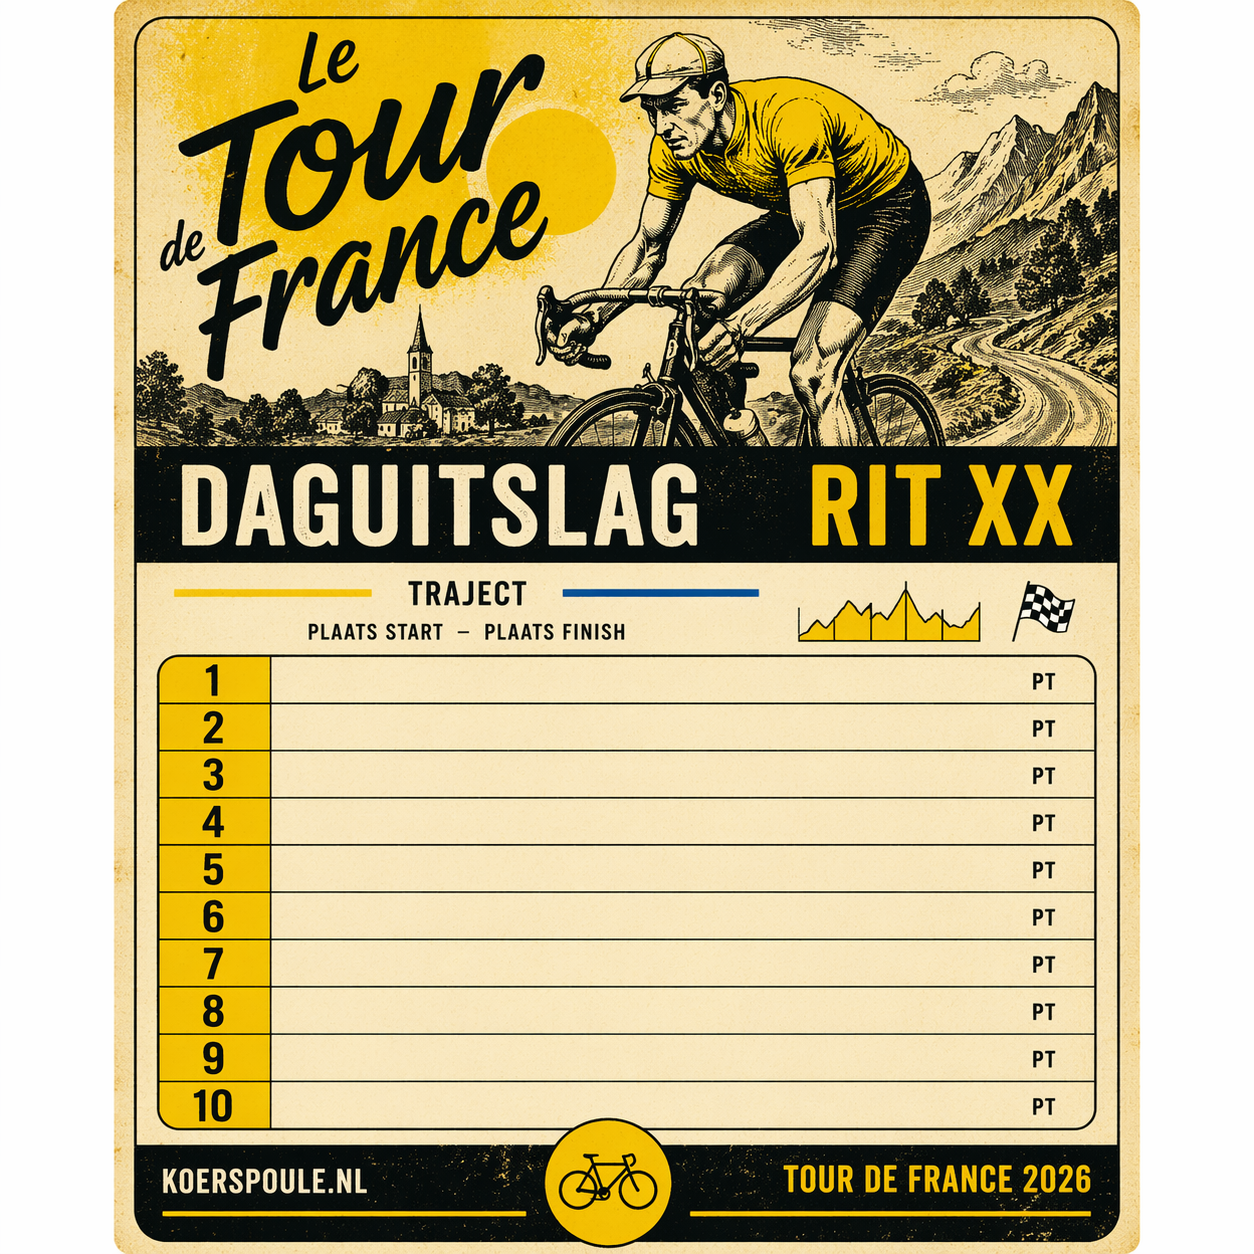
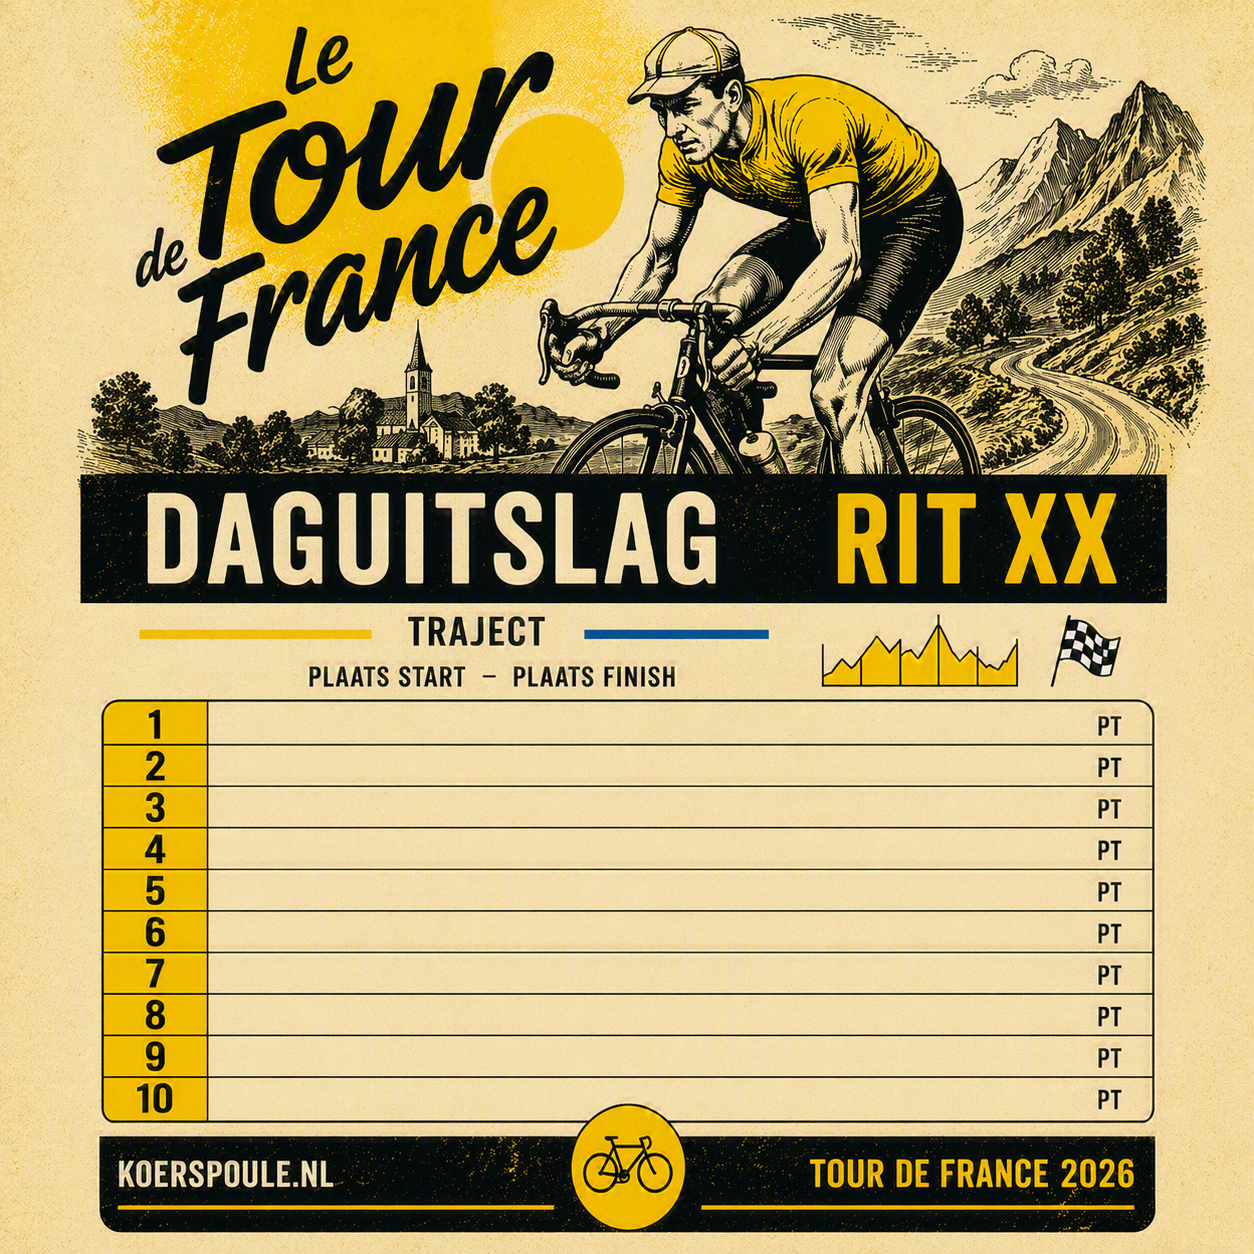
fix(horscat/subpoule): alle beweging uit — geen schuine lijn-intekening, groei of entrance
De 'schuine beweging' was de recharts-lijn die zich diagonaal intekende:
isAnimationActive={false} op SubpouleEvolutionChart + DemoEvolutionChart.
Verder alle resterende ambient-/groei-/entrance-animaties gestript:
- AapscoreDistributie: bar-scaleY-groei + opacity-fades weg (helper/vars op-
  geruimd);
- DaguitslagChart: fade-in-container + bar-width-tween weg;
- MijnPloegStats: keyframe fade-in (opacity-0 → in) van de statkaarten weg;
- HorsCategorieTab: Pelotonkeuze-/droomploeg-balken groeien niet meer
  (transition-[width]/transition-all weg), gauge-sweep al eerder weg;
- transition-all → transition-colors in SubpouleStandings/Heatmap/Evolution/
  Manager/CompareSetup (alleen kleur, geen width/transform-tween); active:
  translate-y van SubpouleManager-knoppen weg.
Klik-accordions (uitleg open/dicht) blijven — dat is een expliciete actie.

diff --git a/src/components/horscat/AapscoreDistributie.tsx b/src/components/horscat/AapscoreDistributie.tsx
@@ -31,11 +31,6 @@ const FONT_SANS = "'Inter','DM Sans',sans-serif";
 const FONT_SERIF = "'Source Serif 4',Georgia,serif";
 const FONT_MONO = "'JetBrains Mono',monospace";
 
-function prefersReducedMotion(): boolean {
-  if (typeof window === "undefined" || !window.matchMedia) return false;
-  return window.matchMedia("(prefers-reduced-motion: reduce)").matches;
-}
-
 function niceCeil(v: number): number {
   if (v <= 10) return 10;
   const mag = 10 ** Math.floor(Math.log10(v));
@@ -65,11 +60,9 @@ export default function AapscoreDistributie({
   monkeyCount = 5000,
   className,
 }: Props) {
-  const reduce = prefersReducedMotion();
+  // Geen grow-/fade-in-animatie meer (bewust): alles staat direct in eindstand.
   const wrapRef = useRef<HTMLDivElement>(null);
   const [w, setW] = useState(0);
-  // Geen grow-/fade-in-animatie meer (bewust): alles staat direct in eindstand.
-  const mounted = true;
 
   useEffect(() => {
     if (!wrapRef.current) return;
@@ -135,8 +128,6 @@ export default function AapscoreDistributie({
             height: isMobile ? 140 : 180,
             width: "auto",
             filter: "drop-shadow(0 8px 16px rgba(0,0,0,0.18))",
-            opacity: mounted ? 1 : 0,
-            transition: reduce ? undefined : "opacity 200ms ease-out 200ms",
             zIndex: 2,
           }}
         />
@@ -286,7 +277,7 @@ export default function AapscoreDistributie({
             className="absolute inset-y-0 flex items-end"
             style={{ left: yGutter, right: 0, gap: 1 }}
           >
-            {dist.map((b, i) => {
+            {dist.map((b) => {
               const hPct = (b.count / yMax) * 100;
               const isUser = b.bucket === userBin;
               return (
@@ -303,9 +294,6 @@ export default function AapscoreDistributie({
                     borderTop: isUser ? undefined : `1px solid ${BAR_TOP}`,
                     borderTopLeftRadius: 2,
                     borderTopRightRadius: 2,
-                    transformOrigin: "bottom",
-                    transform: mounted ? "scaleY(1)" : "scaleY(0)",
-                    transition: reduce ? undefined : `transform 380ms ease-out ${i * 8}ms`,
                   }}
                 />
               );
@@ -359,8 +347,6 @@ export default function AapscoreDistributie({
                       : 0,
                 right: balloonAlign === "right" ? 0 : "auto",
                 transform: balloonAlign === "center" ? "translateX(-50%)" : undefined,
-                opacity: mounted ? 1 : 0,
-                transition: reduce ? undefined : "opacity 160ms ease-out 380ms",
               }}
             >
               <div

diff --git a/src/components/SubpouleEvolutionChart.tsx b/src/components/SubpouleEvolutionChart.tsx
@@ -36,8 +36,8 @@ export const CHART_VISUAL = {
   tooltipCursor: { stroke: "rgba(0,0,0,0.15)", strokeWidth: 1, strokeDasharray: "3 4" } as const,
   tooltipClass: "rounded-xl border border-border bg-card/95 shadow-lg text-xs text-foreground/90 overflow-hidden",
   activeDotStroke: "hsl(var(--bg-wielerdirecteur))",
-  toggleBtnClass: "text-[11px] font-medium px-3 py-1.5 rounded-full border border-border bg-secondary/50 text-muted-foreground hover:bg-secondary hover:border-foreground/20 transition-all",
-  pillBase: "group flex items-center gap-1.5 text-[11px] px-2.5 py-1 rounded-full border transition-all",
+  toggleBtnClass: "text-[11px] font-medium px-3 py-1.5 rounded-full border border-border bg-secondary/50 text-muted-foreground hover:bg-secondary hover:border-foreground/20 transition-colors",
+  pillBase: "group flex items-center gap-1.5 text-[11px] px-2.5 py-1 rounded-full border transition-colors",
   pillVisible: "border-border bg-secondary/50 text-foreground/90 hover:bg-secondary hover:border-foreground/20",
   pillHidden: "border-border/30 bg-secondary/20 text-muted-foreground/40 hover:text-muted-foreground",
   pillHighlighted: "ring-1 ring-foreground/20 bg-secondary",
@@ -253,7 +253,7 @@ export default function SubpouleEvolutionChart({
                       key={k}
                       onClick={() => setOthersMode(k)}
                       className={cn(
-                        "px-2.5 py-1 rounded-full transition-all",
+                        "px-2.5 py-1 rounded-full transition-colors",
                         othersMode === k
                           ? "bg-card text-foreground shadow-sm"
                           : "text-muted-foreground hover:text-foreground"
@@ -268,7 +268,7 @@ export default function SubpouleEvolutionChart({
                 onClick={() => setShowNames((v) => !v)}
                 aria-pressed={showNames}
                 className={cn(
-                  "px-2.5 py-1 rounded-full border text-[11px] font-medium transition-all",
+                  "px-2.5 py-1 rounded-full border text-[11px] font-medium transition-colors",
                   showNames
                     ? "bg-primary text-primary-foreground border-foreground shadow-sm"
                     : "border-border bg-secondary/40 text-muted-foreground hover:text-foreground"
@@ -331,7 +331,7 @@ export default function SubpouleEvolutionChart({
                   title={visible ? "Dubbelklik om te verbergen" : "Klik om te tonen"}
                 >
                   <span
-                    className="h-2 w-2 rounded-full transition-all"
+                    className="h-2 w-2 rounded-full transition-colors"
                     style={{
                       backgroundColor: visible ? color : "transparent",
                       border: visible ? "none" : `1.5px solid ${color}`,
@@ -527,8 +527,7 @@ export default function SubpouleEvolutionChart({
                           stroke: CHART_VISUAL.activeDotStroke,
                           fill: color,
                         }}
-                        animationDuration={700}
-                        animationEasing="ease-out"
+                        isAnimationActive={false}
                         connectNulls
                         label={(lp: any) => {
                           const { x, y, index } = lp;

diff --git a/src/components/HorsCategorieTab.tsx b/src/components/HorsCategorieTab.tsx
@@ -1041,7 +1041,7 @@ export default function HorsCategorieTab({ initialTab, gameId: gameIdProp, gameS
                             <div
                               key={p.rider_id}
                               className={cn(
-                                "rounded-md p-2 transition-all",
+                                "rounded-md p-2 transition-colors",
                                 mine
                                   ? "ring-2 ring-primary shadow-[0_0_12px_hsl(var(--primary)/0.35)] bg-primary/5 border border-primary/40"
                                   : "border border-transparent",
@@ -1060,7 +1060,7 @@ export default function HorsCategorieTab({ initialTab, gameId: gameIdProp, gameS
                               </div>
                               <div className="mt-1 h-2 rounded-full bg-secondary overflow-hidden">
                                 <div
-                                  className="h-full transition-all duration-500"
+                                  className="h-full"
                                   style={{ width: `${Math.max(6, pct)}%`, background: ownershipColor(pct) }}
                                 />
                               </div>
@@ -1167,7 +1167,7 @@ export default function HorsCategorieTab({ initialTab, gameId: gameIdProp, gameS
                               <div
                                 key={`${p.rider_id}-${p.position}`}
                                 className={cn(
-                                  "rounded-md p-2 transition-all",
+                                  "rounded-md p-2 transition-colors",
                                   mine
                                     ? "ring-2 ring-primary bg-primary/5 border border-primary/40"
                                     : "border border-transparent bg-card/40",
@@ -1191,7 +1191,7 @@ export default function HorsCategorieTab({ initialTab, gameId: gameIdProp, gameS
                                 </div>
                                 <div className="mt-1 h-1.5 rounded-full bg-secondary overflow-hidden">
                                   <div
-                                    className="h-full transition-all duration-500"
+                                    className="h-full"
                                     style={{ width: `${Math.max(4, pct)}%`, background: ownershipColor(pct) }}
                                   />
                                 </div>
@@ -1494,7 +1494,7 @@ export default function HorsCategorieTab({ initialTab, gameId: gameIdProp, gameS
                             <div className="text-muted-foreground text-[11px] mt-1">{sub}</div>
                           </div>
                           <div className="flex-1 h-3 rounded-full bg-secondary/80 overflow-hidden ring-1 ring-inset ring-border/50">
-                            <div className={cn("h-full rounded-full transition-[width] duration-700", barCls)} style={{ width: `${Math.round(pct * 100)}%` }} />
+                            <div className={cn("h-full rounded-full", barCls)} style={{ width: `${Math.round(pct * 100)}%` }} />
                           </div>
                           <span className={cn("shrink-0 inline-flex items-baseline gap-0.5 rounded-md border px-2 py-1 font-mono font-bold tabular-nums text-lg", chipCls)}>
                             {val.toFixed(1)}<span className="text-[10px] font-normal opacity-60">/10</span>

diff --git a/src/components/MijnPloegStats.tsx b/src/components/MijnPloegStats.tsx
@@ -41,13 +41,12 @@ const CELL_HAIRLINE = "1px solid color-mix(in srgb, var(--ink-sepia) 20%, transp
 
 function StatCard({
   label,
-  delay,
   isEmpty,
   index,
   children,
 }: {
   label: string;
-  delay: number;
+  delay?: number;
   isEmpty: boolean;
   /** Positie in het 2×2 raster: bepaalt de interne hairlines + goud-anker. */
   index: number;
@@ -55,7 +54,7 @@ function StatCard({
 }) {
   return (
     <div
-      className="flex flex-col gap-1.5 p-3 opacity-0 min-h-[80px]"
+      className="flex flex-col gap-1.5 p-3 min-h-[80px]"
       style={{
         // Kolom 2 krijgt een hairline links, rij 2 een hairline boven.
         // Cel 1 (linksboven) krijgt het gouden anker-randje.
@@ -66,7 +65,6 @@ function StatCard({
               ? CELL_HAIRLINE
               : undefined,
         borderTop: index >= 2 ? CELL_HAIRLINE : undefined,
-        animation: `ploegStatsFadeIn 0.45s ease-out ${delay}ms forwards`,
       }}
     >
       <span

diff --git a/src/components/SubpouleStandings.tsx b/src/components/SubpouleStandings.tsx
@@ -534,7 +534,7 @@ export default function SubpouleStandings({ subpouleId, subpouleName, gameId, ga
                   }
                 } : undefined}
                 className={cn(
-                  "group flex items-center gap-2 md:gap-3 px-3 border-b border-border/40 transition-all duration-120 select-none",
+                  "group flex items-center gap-2 md:gap-3 px-3 border-b border-border/40 transition-colors duration-120 select-none",
                   rowAccentCls,
                   isMe && "bg-primary/[0.08] ring-1 ring-inset ring-primary/30",
                   isComparing && "bg-accent/15 ring-1 ring-inset ring-accent/50",
@@ -661,9 +661,9 @@ export default function SubpouleStandings({ subpouleId, subpouleName, gameId, ga
                         className={cn(
                           "hidden md:inline-flex items-center gap-1.5 rounded-full border px-2.5 py-1",
                           "text-[10px] font-bold uppercase tracking-wider whitespace-nowrap",
-                          "transition-all duration-150",
+                          "transition-colors duration-150",
                           isComparing
-                            ? "opacity-100 translate-x-0 bg-primary/10 border-primary text-primary drop-shadow-[0_0_6px_hsl(var(--primary)/0.5)]"
+                            ? "opacity-100 bg-primary/10 border-primary text-primary drop-shadow-[0_0_6px_hsl(var(--primary)/0.5)]"
                             : "opacity-60 border-border bg-card text-muted-foreground group-hover:opacity-100 group-hover:border-primary/60 group-hover:text-primary group-hover:bg-primary/5 focus-visible:opacity-100",
                         )}
                         aria-label={isComparing ? "Vergelijking sluiten" : `Benchmark tegen ${m.team_name ?? m.display_name ?? "dit team"}`}

diff --git a/src/components/DaguitslagChart.tsx b/src/components/DaguitslagChart.tsx
@@ -181,7 +181,7 @@ export default function DaguitslagChart({ subpouleId, subpouleName, gameId, game
 
       {/* Bars — korte fade bij ritwissel (key op rit-id), geen layout-sprong. */}
       <CardContent className="p-3 sm:p-4">
-        <div key={selectedStage.id} className="animate-in fade-in duration-200 motion-reduce:animate-none">
+        <div key={selectedStage.id}>
         {scorers.length === 0 ? (
           <p className="text-sm text-muted-foreground italic text-center py-4">
             Niemand scoorde punten in deze rit.
@@ -238,7 +238,7 @@ export default function DaguitslagChart({ subpouleId, subpouleName, gameId, game
                     <div className="flex-1 h-5 sm:h-6 bg-secondary/40 border border-border/60 rounded-sm overflow-hidden relative">
                       <div
                         className={cn(
-                          "h-full border-r-2 motion-safe:transition-[width] motion-safe:duration-[400ms] motion-safe:ease-out",
+                          "h-full border-r-2",
                           isWinner
                             ? "bg-primary/80 border-primary"
                             : "bg-[hsl(var(--vintage-paper-dark,30_25%_55%))] border-foreground/40",

diff --git a/src/components/SubpouleManager.tsx b/src/components/SubpouleManager.tsx
@@ -532,7 +532,7 @@ export default function SubpouleManager({ gameId, gameName, gameStatus, onActive
           </div>
           <button
             onClick={() => shareInvite(active.name, active.code, active.slug)}
-            className="inline-flex items-center gap-2 shrink-0 px-4 py-2 rounded-md bg-primary text-primary-foreground font-bold text-sm border-2 border-foreground shadow-[3px_3px_0_hsl(var(--foreground))] hover:brightness-105 active:translate-y-px active:shadow-[2px_2px_0_hsl(var(--foreground))] transition-all"
+            className="inline-flex items-center gap-2 shrink-0 px-4 py-2 rounded-md bg-primary text-primary-foreground font-bold text-sm border-2 border-foreground shadow-[3px_3px_0_hsl(var(--foreground))] hover:brightness-105 transition-colors"
           >
             <Share2 className="h-4 w-4" />
             Daag je vrienden uit
@@ -656,7 +656,7 @@ export default function SubpouleManager({ gameId, gameName, gameStatus, onActive
           type="button"
           onClick={() => setChatOpen(true)}
           aria-label="Open koerscafé-chat"
-          className="md:hidden fixed right-4 bottom-[72px] z-40 inline-flex items-center justify-center h-14 w-14 rounded-full bg-primary text-primary-foreground border-2 border-foreground shadow-[3px_3px_0_hsl(var(--foreground))] active:translate-y-px active:shadow-[2px_2px_0_hsl(var(--foreground))] transition-all"
+          className="md:hidden fixed right-4 bottom-[72px] z-40 inline-flex items-center justify-center h-14 w-14 rounded-full bg-primary text-primary-foreground border-2 border-foreground shadow-[3px_3px_0_hsl(var(--foreground))] transition-colors"
         >
           <MessageCircle className="h-6 w-6" />
           {/* TODO: ongelezen-badge zodra PelotonChat/chat-hook een unread-count

diff --git a/src/components/DemoEvolutionChart.tsx b/src/components/DemoEvolutionChart.tsx
@@ -212,8 +212,7 @@ export default function DemoEvolutionChart() {
                     filter={isHighlighted ? `url(#demo-glow-${m.user_id})` : undefined}
                     dot={false}
                     activeDot={{ r: isHighlighted ? 6 : 4, strokeWidth: 2, stroke: CHART_VISUAL.activeDotStroke, fill: color }}
-                    animationDuration={700}
-                    animationEasing="ease-out"
+                    isAnimationActive={false}
                     connectNulls
                   />
                 );

diff --git a/src/components/CompareSetup.tsx b/src/components/CompareSetup.tsx
@@ -135,7 +135,7 @@ export default function CompareSetup({
                   key={o.user_id}
                   onClick={() => setSelectedId(o.user_id)}
                   className={cn(
-                    "shrink-0 flex items-center gap-2 rounded-full border px-3 py-1.5 transition-all",
+                    "shrink-0 flex items-center gap-2 rounded-full border px-3 py-1.5 transition-colors",
                     active
                       ? "border-primary bg-primary/10 text-primary shadow-sm"
                       : "border-border bg-secondary/40 text-foreground/80 hover:bg-secondary hover:border-foreground/20"

diff --git a/src/components/SubpouleHeatmap.tsx b/src/components/SubpouleHeatmap.tsx
@@ -178,7 +178,7 @@ export default function SubpouleHeatmap({ subpouleId }: Props) {
                 aria-pressed={isOn}
                 title={isOn ? `Verberg ${p.display_name}` : `Toon ${p.display_name}`}
                 className={cn(
-                  "inline-flex items-center gap-1.5 rounded-full pl-1 pr-2.5 py-0.5 text-xs border-2 border-foreground transition-all",
+                  "inline-flex items-center gap-1.5 rounded-full pl-1 pr-2.5 py-0.5 text-xs border-2 border-foreground transition-colors",
                   isOn
                     ? "bg-card text-foreground"
                     : "bg-secondary/40 text-muted-foreground opacity-55 hover:opacity-85 line-through decoration-1",